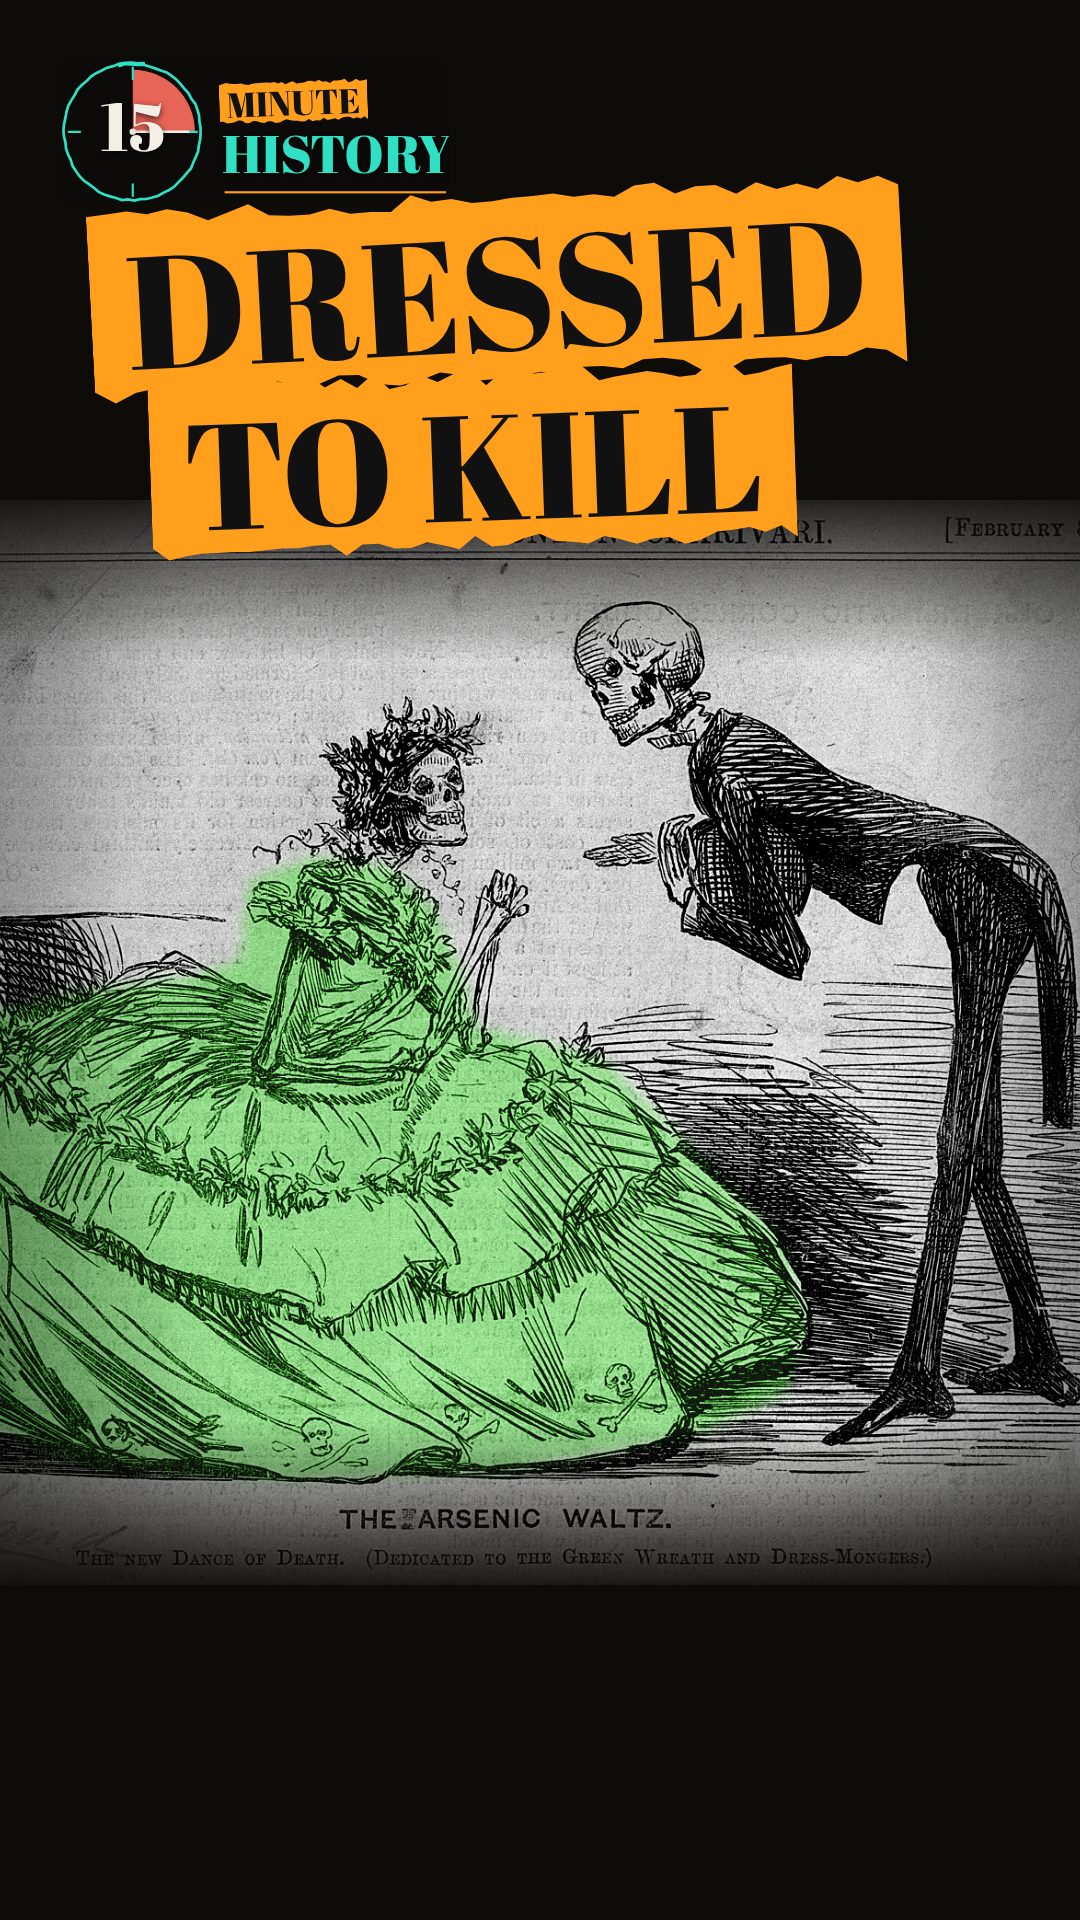
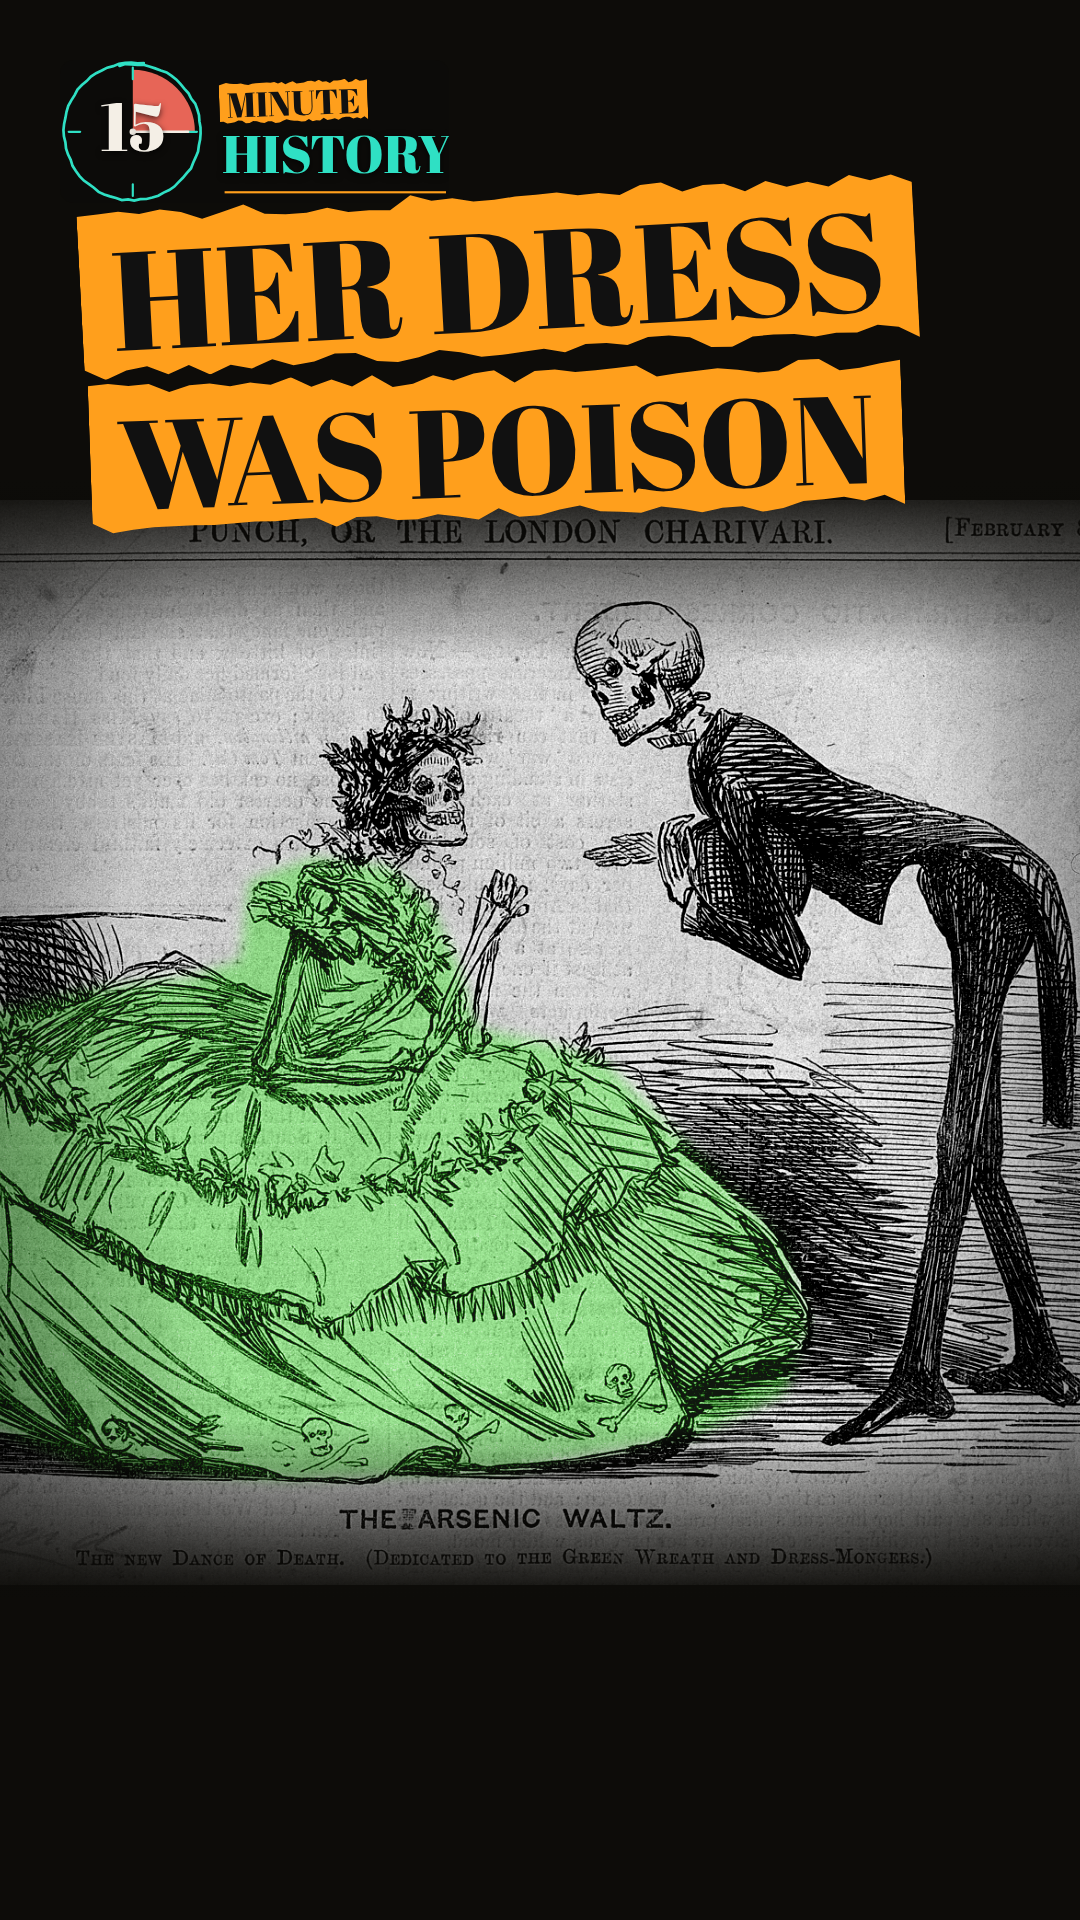
Shorts covers: claim-led headlines, hem callout
Claude-Session: https://claude.ai/code/session_012amP2QhikNLhM5pKjRPy7K

Changed region(s): [[0.0611, 0.0938, 0.8556, 0.3125]]

diff --git a/projects/Dressed_To_Kill/src/vshorts.tsx b/projects/Dressed_To_Kill/src/vshorts.tsx
@@ -444,7 +444,7 @@ export const VSHORTS = DEFS.map((d) => {
 // middle half so the feed (9:16) and channel-grid (3:4 / square) crops both keep it; the bottom fifth is clear for YouTube's UI.
 
 export const THUMBV_FRAMES = 60;
-const COVERS: Record<string, [string, string]> = {A: ['DRESSED', 'TO KILL'], B: ['LOOK', 'CLOSELY']};
+const COVERS: Record<string, [string, string]> = {A: ['HER DRESS', 'WAS POISON'], B: ['LOOK AT', 'THE HEM'], C: ['DRESSED', 'TO KILL']};
 
 export const ThumbV: React.FC<{k: string}> = ({k}) => {
   const [l1, l2] = COVERS[k];
@@ -465,9 +465,15 @@ export const ThumbV: React.FC<{k: string}> = ({k}) => {
             <Wordmark clockAt={0} numAt={0} minAt={0} hisAt={0} />
           </div>
         </div>
-        <Highlight text={l1} x={90} y={190} size={160} at={0} seed={901} rot={-3} />
-        <Highlight text={l2} x={150} y={370} size={150} at={0} seed={903} rot={-2} />
+        <Highlight text={l1} x={80} y={190} size={k === 'A' ? 140 : 160} at={0} seed={901} rot={-3} />
+        <Highlight text={l2} x={k === 'A' ? 90 : 150} y={370} size={k === 'A' ? 125 : 150} at={0} seed={903} rot={-2} />
         </AbsoluteFill>
+        {k === 'B' && (
+          <AbsoluteFill style={{zIndex: 10}}>
+            <Loop cx={380} cy={1420} rx={330} ry={62} at={0} seed={74} tilt={-3} width={7} />
+            <Note text="tiny skulls, on a ball gown" x={200} y={1495} size={60} rot={-3} at={0} color="#ffffff" />
+          </AbsoluteFill>
+        )}
         <Finish vignette={0.3} />
       </AbsoluteFill>
     </PaletteCtx.Provider>

diff --git a/projects/Dressed_To_Kill/src/Root.tsx b/projects/Dressed_To_Kill/src/Root.tsx
@@ -19,7 +19,7 @@ export const Root: React.FC = () => (
     <Composition id="Thumb-C" width={W} height={H} fps={FPS} durationInFrames={THUMB_FRAMES} component={() => <JFonts><ThumbC /></JFonts>} />
     <Composition id="Intro" width={W} height={H} fps={FPS} durationInFrames={INTRO_FRAMES} component={() => <JFonts><ChannelIntro /></JFonts>} />
     <Composition id="LogoBreak" width={W} height={H} fps={FPS} durationInFrames={BREAK_FRAMES} component={() => <JFonts><LogoBreak /></JFonts>} />
-    {['A', 'B'].map((k) => <Composition key={k} id={`ThumbV-${k}`} width={1080} height={1920} fps={FPS} durationInFrames={THUMBV_FRAMES} component={() => <JFonts><ThumbV k={k} /></JFonts>} />)}
+    {['A', 'B', 'C'].map((k) => <Composition key={k} id={`ThumbV-${k}`} width={1080} height={1920} fps={FPS} durationInFrames={THUMBV_FRAMES} component={() => <JFonts><ThumbV k={k} /></JFonts>} />)}
     {VSHORTS.map((s) => <Composition key={s.id} id={s.id} width={1080} height={1920} fps={FPS} durationInFrames={s.frames} component={() => <JFonts><s.C /></JFonts>} />)}
     {BRAND.map((b) => <Composition key={b.id} id={b.id} width={b.w} height={b.h} fps={FPS} durationInFrames={1} component={() => <JFonts><b.C /></JFonts>} />)}
   </>

diff --git a/projects/Dressed_To_Kill/review/Shorts.md b/projects/Dressed_To_Kill/review/Shorts.md
@@ -59,7 +59,10 @@ Watch Short 1's "stayed to watch" rate first; if the skeleton hook beats the boo
 
 ## Shorts covers (vertical, 1080×1920)
 
-`renders/shorts/Dressed_To_Kill_Short1_cover_A.png` (DRESSED / TO KILL) and `..._cover_B.png` (LOOK / CLOSELY), built from the
-Arsenic Waltz skeletons with the gown in arsenic green (`ThumbV` in `src/vshorts.tsx`, compositions `ThumbV-A` / `ThumbV-B`).
-Both skulls sit in the middle half, the headline in the top quarter and the bottom fifth is clear, so the 9:16 feed crop and the
-3:4 / square channel-grid crops both keep the subject. Upload from the YouTube mobile app (Edit → Select cover → Upload image).
+Built from the Arsenic Waltz skeletons with the gown in arsenic green (`ThumbV`, compositions `ThumbV-A/B/C`). Subject in the middle
+half, headline in the top quarter, bottom fifth clear. Upload from the YouTube mobile app (Edit → Select cover → Upload image).
+Headlines are claims, not the brand title, because a cold Shorts viewer needs a reason to stop:
+
+- `..._cover_A.png` · **HER DRESS / WAS POISON** (lead with this one)
+- `..._cover_B.png` · **LOOK AT / THE HEM**, teal loop on the tiny skulls drawn on the hem, so "look" has a payoff
+- `..._cover_C.png` · DRESSED / TO KILL (brand title, weakest for strangers)
